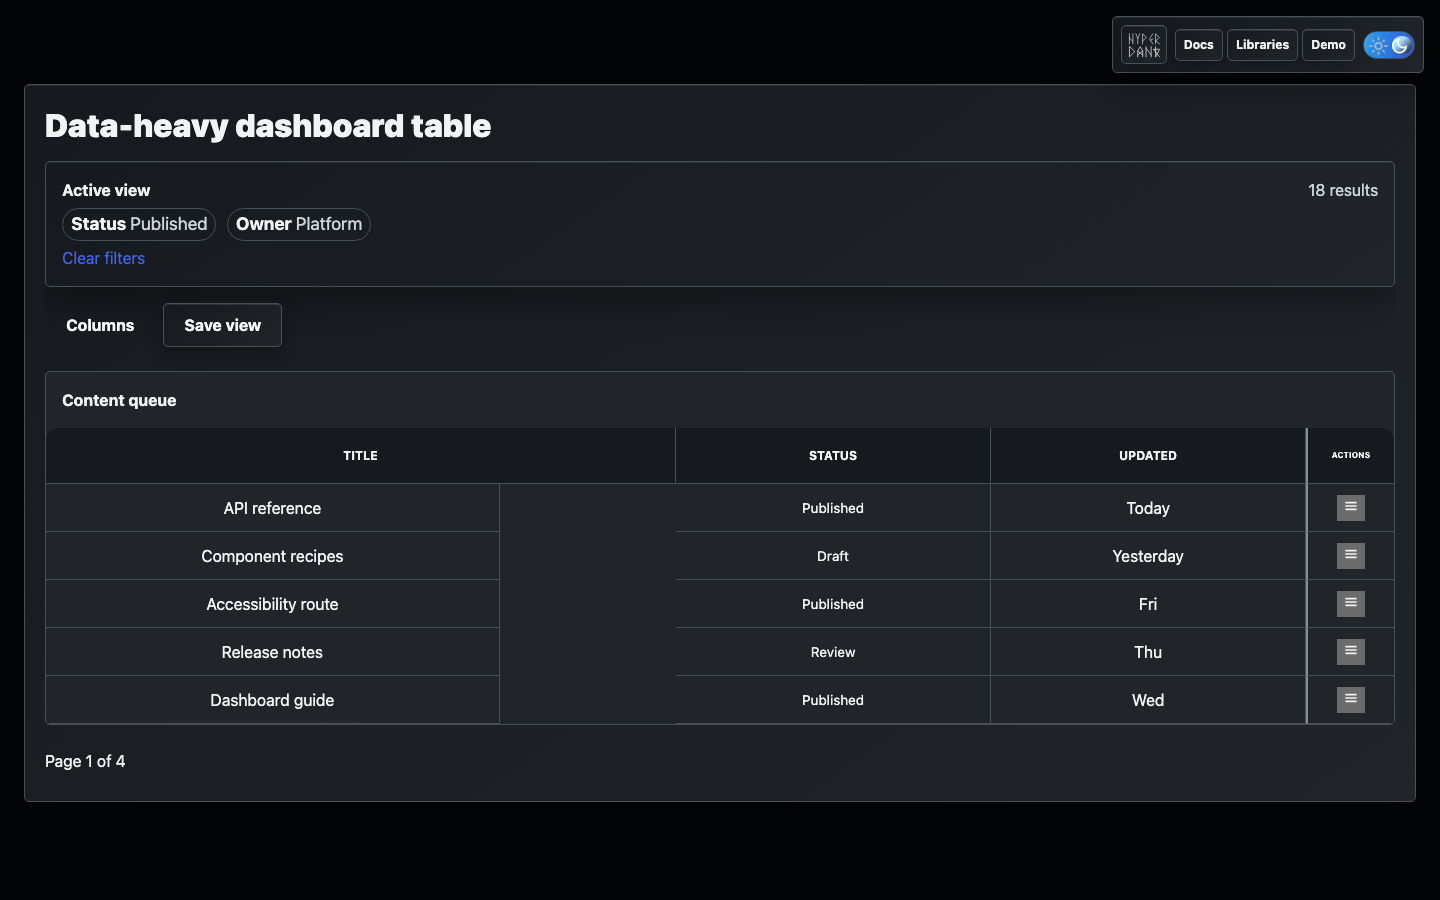
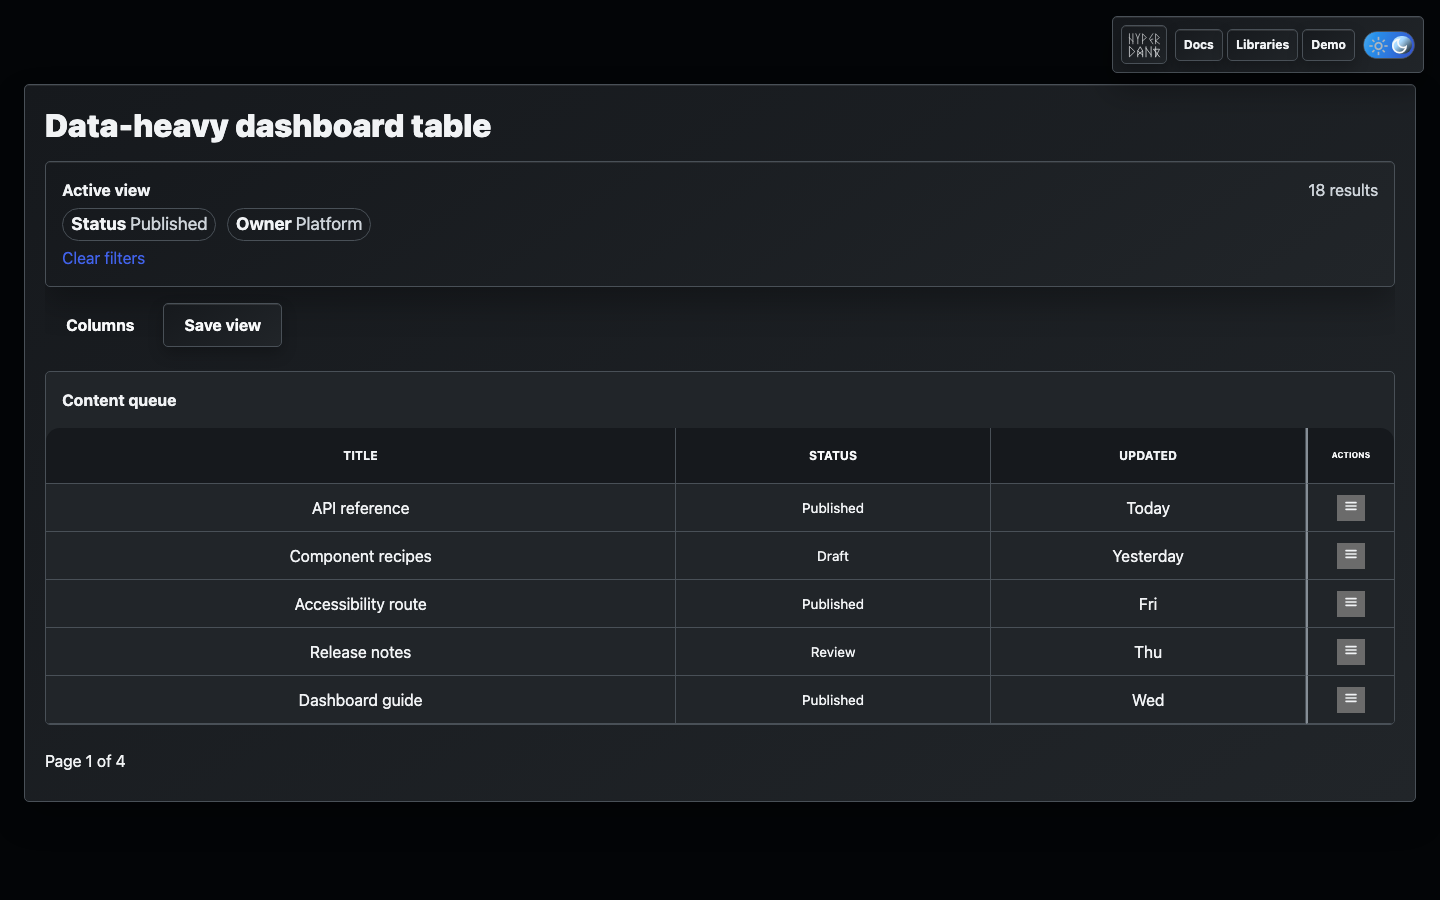
fix(ui): align scrollable table cells

Changed region(s): [[0.1562, 0.7156, 0.2812, 0.8089], [0.1562, 0.56, 0.2812, 0.6222], [0.1562, 0.6533, 0.3125, 0.6844]]

diff --git a/apps/walking-pace/src/client/styles.test.ts b/apps/walking-pace/src/client/styles.test.ts
@@ -11,6 +11,7 @@ describe("client styles", () => {
     expect(css).toContain("--button-text: var(--blue-9)");
     expect(css).toContain('.button[data-variant="ghost"]');
     expect(css).toContain("--scrollable-table-header-height: 3.5rem");
+    expect(css).toContain("max-width: none");
     expect(css).toContain(".scrollable-table tbody .scrollable-table-row:last-child > td");
     expect(css).toContain('.switch[data-variant="compact"] .switch-track');
     expect(css).toContain(".switch-input:checked + .switch-track .switch-thumb");

diff --git a/apps/walking-pace/src/client/styles.css b/apps/walking-pace/src/client/styles.css
@@ -682,6 +682,7 @@ input[type="number"]:focus {
   height: var(--scrollable-table-header-height);
   letter-spacing: var(--font-letterspacing-2);
   line-height: var(--font-lineheight-0);
+  max-width: none;
   min-width: 0;
   overflow: hidden;
   padding: var(--size-2);
@@ -697,6 +698,7 @@ input[type="number"]:focus {
   box-sizing: border-box;
   display: grid;
   height: var(--scrollable-table-row-height);
+  max-width: none;
   min-height: 0;
   min-width: 0;
   place-items: center;
